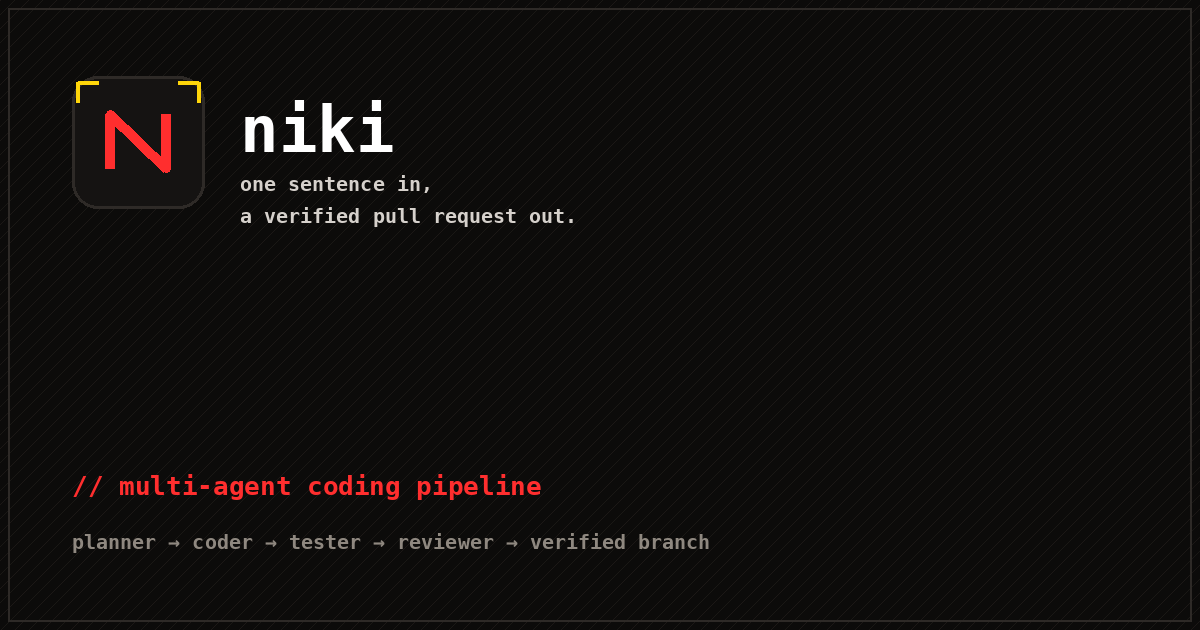
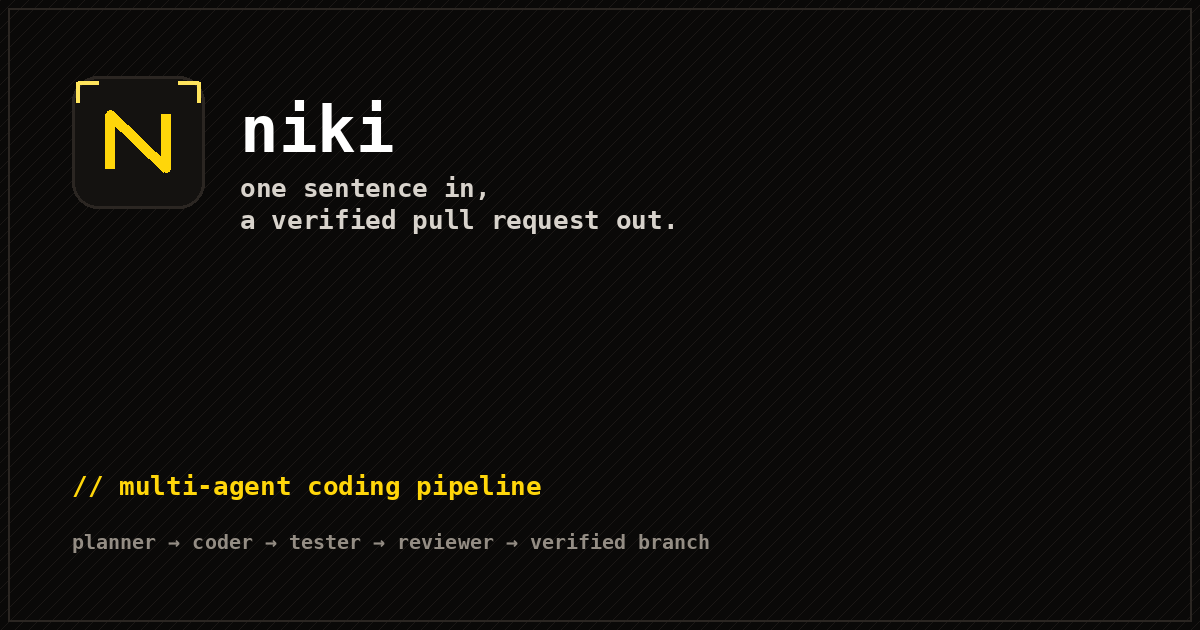
Rebrand: black + yellow only (red retired everywhere)
Full palette migration from red/yellow/black to shades of warm black
with sharp yellow as the single accent — no red anywhere in the Niki
UI, across marketing site and docs site:

- tokens.css: warm black surfaces (#0a0908/#141210/#1c1916), sharp
  yellow #ffd60a + soft #ffe45c hover tier + deep-yellow #e8b90a;
  --nk-red and all legacy names now alias the yellow family
- Agent roles: brightness tiers of yellow/white (planner yellow,
  coder soft-yellow, tester deep-yellow, reviewer white) — the
  pipeline stays readable without introducing a second hue
- Hero shader: yellow creases rising to soft-yellow ridges on warm
  black (black-and-yellow only), fresh seed
- Traffic dots: deep-yellow / yellow / white tiers
- Selection: yellow bg, black text; hazard stripes now use two
  yellow brightness tiers
- Favicons, apple-touch-icons, OG images regenerated with the
  yellow N mark (web + docs)
- Docs: light mode deep-yellow accents (#8a7300), dark mode yellow
  accent, code-diff surfaces tiered yellow, blume.config updated

Verified: 0 red pixels in the Niki UI site-wide (the only red on the
page is Groq's own brand mark in the provider marquee — third-party
brand, correct to keep), computed styles confirm yellow buttons on
warm black, docs dark-mode accent #ffd60a, full gate 0 issues at
390/768/1440, both builds pass.

diff --git a/apps/docs/theme.css b/apps/docs/theme.css
@@ -1,8 +1,8 @@
 /**
  * Niki docs — brand theme overrides on top of Blume's tokens.
  * Canonical palette: packages/niki-theme/tokens.css
- * Dark-first, flat surfaces, thin borders. Hazard palette:
- * warm blacks, sharp red primary, sharp yellow secondary.
+ * Dark-first, flat surfaces, thin borders. Palette: shades of warm
+ * black with sharp yellow as the single accent.
  */
 
 :root {
@@ -13,20 +13,20 @@
   --blume-muted-foreground: #5a6367;
   --blume-border: #cdd6da;
 
-  /* Brand accents (light mode — deep red for contrast) */
-  --blume-accent: #b31414;
+  /* Brand accents (light mode — deep yellow for contrast) */
+  --blume-accent: #8a7300;
   --blume-accent-foreground: #ffffff;
-  --blume-action: #b31414;
+  --blume-action: #8a7300;
   --blume-action-foreground: #ffffff;
 
   /* Code surfaces */
   --blume-code-background: #f0f3f5;
-  --blume-code-add: rgba(179, 20, 20, 0.12);
-  --blume-code-add-border: #b31414;
+  --blume-code-add: rgba(138, 115, 0, 0.12);
+  --blume-code-add-border: #8a7300;
   --blume-code-remove: rgba(255, 214, 10, 0.22);
   --blume-code-remove-border: #8a7300;
-  --blume-code-highlight: rgba(255, 140, 0, 0.14);
-  --blume-code-highlight-border: #b45309;
+  --blume-code-highlight: rgba(232, 185, 10, 0.16);
+  --blume-code-highlight-border: #8a7300;
 
   /* Niki brand tokens (shared with the marketing site) */
   --nk-bg-0: #0c0b0a;
@@ -36,58 +36,58 @@
   --nk-text-primary: #ffffff;
   --nk-text-secondary: #d6d1cc;
   --nk-text-muted: #8f8880;
-  --nk-mint: #b31414;
-  --nk-magenta: #8a7300;
+  --nk-mint: #8a7300;
+  --nk-magenta: #6e5d00;
 
-  /* Niki agent role tokens — semantic, kept distinct from brand system */
+  /* Niki agent role tokens — brightness tiers, no hue change */
   --niki-agent-planner: #8a7300;
-  --niki-agent-coder: #b31414;
-  --niki-agent-tester: #b45309;
+  --niki-agent-coder: #a89200;
+  --niki-agent-tester: #6e5d00;
   --niki-agent-reviewer: #1f2937;
-  --niki-agent-red: #b31414;
+  --niki-agent-red: #6e5d00;
   --niki-agent-security: #8a7300;
 }
 
 :root[data-theme="dark"] {
   /* Surfaces — warm black family */
-  --blume-background: #0c0b0a;
+  --blume-background: #0a0908;
   --blume-foreground: #ffffff;
-  --blume-muted: #151312;
-  --blume-muted-foreground: #8f8880;
-  --blume-border: #2e2a27;
+  --blume-muted: #141210;
+  --blume-muted-foreground: #948d84;
+  --blume-border: #2b2622;
 
-  /* Brand accents — sharp red primary */
-  --blume-accent: #ff2e2e;
-  --blume-accent-foreground: #0c0b0a;
-  --blume-action: #ff2e2e;
-  --blume-action-foreground: #ffffff;
+  /* Brand accents — sharp yellow, the single accent */
+  --blume-accent: #ffd60a;
+  --blume-accent-foreground: #0a0908;
+  --blume-action: #ffd60a;
+  --blume-action-foreground: #0a0908;
 
-  /* Code surfaces */
-  --blume-code-background: #1d1a18;
-  --blume-code-add: rgba(255, 46, 46, 0.14);
-  --blume-code-add-border: #ff2e2e;
-  --blume-code-remove: rgba(255, 214, 10, 0.16);
-  --blume-code-remove-border: #ffd60a;
-  --blume-code-highlight: rgba(255, 140, 0, 0.16);
-  --blume-code-highlight-border: #ff8c00;
+  /* Code surfaces — yellow-tiered, no hue change */
+  --blume-code-background: #1c1916;
+  --blume-code-add: rgba(255, 214, 10, 0.14);
+  --blume-code-add-border: #ffd60a;
+  --blume-code-remove: rgba(255, 228, 92, 0.12);
+  --blume-code-remove-border: #ffe45c;
+  --blume-code-highlight: rgba(232, 185, 10, 0.14);
+  --blume-code-highlight-border: #e8b90a;
 
   /* Niki brand tokens (dark) */
-  --nk-bg-0: #0c0b0a;
-  --nk-bg-1: #151312;
-  --nk-bg-2: #1d1a18;
-  --nk-border: #2e2a27;
+  --nk-bg-0: #0a0908;
+  --nk-bg-1: #141210;
+  --nk-bg-2: #1c1916;
+  --nk-border: #2b2622;
   --nk-text-primary: #ffffff;
-  --nk-text-secondary: #d6d1cc;
-  --nk-text-muted: #8f8880;
-  --nk-mint: #ff2e2e;
-  --nk-magenta: #ffd60a;
+  --nk-text-secondary: #d8d3cc;
+  --nk-text-muted: #948d84;
+  --nk-mint: #ffd60a;
+  --nk-magenta: #ffe45c;
 
-  /* Agent role tokens (dark) — red/yellow family, readable on warm blacks */
+  /* Agent role tokens (dark) — brightness tiers of yellow/white */
   --niki-agent-planner: #ffd60a;
-  --niki-agent-coder: #ff2e2e;
-  --niki-agent-tester: #ff8c00;
+  --niki-agent-coder: #ffe45c;
+  --niki-agent-tester: #e8b90a;
   --niki-agent-reviewer: #ffffff;
-  --niki-agent-red: #ff2e2e;
+  --niki-agent-red: #e8b90a;
   --niki-agent-security: #ffd60a;
 }
 
@@ -118,19 +118,19 @@
   border-radius: 12px;
 }
 
-/* Inline code: red chip, consistent with marketing site */
+/* Inline code: yellow chip, consistent with marketing site */
 :root[data-theme="dark"] :not(pre) > code {
-  background: rgba(255, 46, 46, 0.08);
-  border: 1px solid rgba(255, 46, 46, 0.18);
-  color: #ff6b6b;
+  background: rgba(255, 214, 10, 0.08);
+  border: 1px solid rgba(255, 214, 10, 0.2);
+  color: #ffd60a;
   border-radius: 6px;
   padding: 0.1em 0.35em;
 }
 
 :root:not([data-theme="dark"]) :not(pre) > code {
-  background: rgba(179, 20, 20, 0.06);
-  border: 1px solid rgba(179, 20, 20, 0.14);
-  color: #b31414;
+  background: rgba(138, 115, 0, 0.07);
+  border: 1px solid rgba(138, 115, 0, 0.16);
+  color: #8a7300;
   border-radius: 6px;
   padding: 0.1em 0.35em;
 }
@@ -142,7 +142,7 @@ h3 {
   letter-spacing: -0.02em;
 }
 
-/* Links: red in dark, deep red in light */
+/* Links: yellow in dark, deep yellow in light */
 :root[data-theme="dark"] a {
   color: var(--nk-mint);
 }

diff --git a/packages/niki-theme/tokens.css b/packages/niki-theme/tokens.css
@@ -1,53 +1,54 @@
 /**
  * Niki design tokens — canonical source for both the marketing site
- * (apps/web) and the docs site (apps/docs). Derived from the Niki visual
- * reference. Dark-first, flat surfaces, thin borders, red/yellow hazard
- * palette on warm blacks.
+ * (apps/web) and the docs site (apps/apps/docs). Dark-first, flat surfaces,
+ * thin borders. Palette: shades of warm black with sharp yellow as the
+ * single accent. No other hue appears in the brand system.
  *
  * Brand system:
- *   --nk-red / --nk-red-deep       primary accent (logo, CTAs, links)
- *   --nk-yellow / --nk-yellow-deep secondary accent (active states, warn)
+ *   --nk-yellow / --nk-yellow-deep  the only accent (brand, CTAs, links,
+ *                                    active states, focus, selection)
  *
- * Legacy aliases (--nk-mint*, --nk-magenta*) remain as compatibility
- * shims: existing rules that reference them cascade to the new palette.
+ * Compatibility aliases (--nk-mint*, --nk-magenta*, --nk-red*) all resolve
+ * to the yellow family so existing rules cascade to the new palette.
  */
 
 :root {
   /* ---- Surfaces (warm black family) ---- */
-  --nk-bg-0: #0c0b0a; /* page background — warm black */
-  --nk-bg-1: #151312; /* raised surface / card */
-  --nk-bg-2: #1d1a18; /* higher surface / code block */
-  --nk-surface-border: #2e2a27; /* thin borders */
+  --nk-bg-0: #0a0908; /* page background — warm black */
+  --nk-bg-1: #141210; /* raised surface / card */
+  --nk-bg-2: #1c1916; /* higher surface / code block */
+  --nk-surface-border: #2b2622; /* thin borders */
 
   /* ---- Text ---- */
   --nk-text-primary: #ffffff;
-  --nk-text-secondary: #d6d1cc;
-  --nk-text-muted: #8f8880;
+  --nk-text-secondary: #d8d3cc;
+  --nk-text-muted: #948d84;
 
-  /* ---- Brand accents ---- */
-  --nk-red: #ff2e2e; /* sharp red — primary accent */
-  --nk-red-deep: #2a0a0a; /* red surface / chip bg */
-  --nk-yellow: #ffd60a; /* sharp yellow — active/attention accent */
-  --nk-yellow-deep: #2a2205; /* yellow surface / chip bg */
+  /* ---- Brand accent ---- */
+  --nk-yellow: #ffd60a; /* sharp yellow — the only accent */
+  --nk-yellow-deep: #2a2305; /* yellow surface / chip bg */
+  --nk-yellow-soft: #ffe45c; /* hover-bright yellow */
 
-  /* ---- Compatibility aliases (old mint/magenta names) ---- */
-  --nk-mint: var(--nk-red);
-  --nk-mint-deep: var(--nk-red-deep);
-  --nk-magenta: var(--nk-yellow);
+  /* ---- Compatibility aliases (all resolve to yellow family) ---- */
+  --nk-red: var(--nk-yellow);
+  --nk-red-deep: var(--nk-yellow-deep);
+  --nk-mint: var(--nk-yellow);
+  --nk-mint-deep: var(--nk-yellow-deep);
+  --nk-magenta: var(--nk-yellow-soft);
   --nk-magenta-deep: var(--nk-yellow-deep);
 
-  /* ---- Agent role colors (semantic, distinct from brand) ---- */
+  /* ---- Agent role colors (semantic — brightness tiers of yellow/white) ---- */
   --nk-agent-planner: #ffd60a; /* yellow */
-  --nk-agent-coder: #ff2e2e; /* red */
-  --nk-agent-tester: #ff8c00; /* orange */
+  --nk-agent-coder: #ffe45c; /* soft yellow */
+  --nk-agent-tester: #e8b90a; /* deep yellow */
   --nk-agent-reviewer: #ffffff; /* white */
-  --nk-agent-red: #ff2e2e;
-  --nk-agent-security: #ffd60a;
+  --nk-agent-red: #e8b90a; /* alias: attention → deep yellow */
+  --nk-agent-security: #ffd60a; /* alias: ok → yellow */
 
-  /* ---- Status ---- */
+  /* ---- Status (brightness-tiered, no hue change) ---- */
   --nk-ok: #ffd60a;
-  --nk-warn: #ff8c00;
-  --nk-err: #ff2e2e;
+  --nk-warn: #ffe45c;
+  --nk-err: #ffffff;
 
   /* ---- Typography ---- */
   --nk-font-sans:
@@ -77,5 +78,5 @@
   --nk-header-h: 64px;
 
   /* ---- Focus ---- */
-  --nk-focus-ring: 0 0 0 2px var(--nk-bg-0), 0 0 0 4px var(--nk-red);
+  --nk-focus-ring: 0 0 0 2px var(--nk-bg-0), 0 0 0 4px var(--nk-yellow);
 }

diff --git a/apps/web/src/components/HeroShader.tsx b/apps/web/src/components/HeroShader.tsx
@@ -3,8 +3,8 @@
 /**
  * Niki hero shader — Silk-style animated WebGL background.
  * Adapted from the 21st.dev Shader Builder ("Silk") component, retuned to
- * the Niki hazard palette: warm black #0c0b0a with sharp red #ff2e2e
- * creases and occasional yellow #ffd60a glints.
+ * the Niki palette: warm blacks with sharp yellow #ffd60a creases rising
+ * to soft #ffe45c at the brightest ridges. Black and yellow only.
  * Low intensity + heavy vignette fade keeps hero text legible.
  * Render loop pauses off-screen / on hidden tabs; disabled entirely under
  * prefers-reduced-motion.
@@ -145,18 +145,18 @@ void main() {
   gl_FragColor = vec4(clamp(col, 0.0, 1.0), 1.0);
 }`;
 
-/* Niki hazard palette: warm black #0c0b0a dominates the field; red
-   #ff2e2e creases the waves; yellow #ffd60a appears at the brightest
-   ridge — a hazard-tape shimmer. */
+/* Niki palette: warm blacks dominate the field; sharp yellow #ffd60a
+   creases the waves, rising to soft #ffe45c at the brightest ridges.
+   Black and yellow only. */
 const COLORS: [number, number, number][] = [
-  [0x0c / 255, 0x0b / 255, 0x0a / 255],
-  [0x0c / 255, 0x0b / 255, 0x0a / 255],
-  [0x15 / 255, 0x13 / 255, 0x12 / 255],
-  [0x2a / 255, 0x0a / 255, 0x0a / 255],
-  [0x5c / 255, 0x14 / 255, 0x14 / 255],
-  [0xa8 / 255, 0x1f / 255, 0x1f / 255],
-  [0xff / 255, 0x2e / 255, 0x2e / 255],
+  [0x0a / 255, 0x09 / 255, 0x08 / 255],
+  [0x0a / 255, 0x09 / 255, 0x08 / 255],
+  [0x14 / 255, 0x12 / 255, 0x10 / 255],
+  [0x2a / 255, 0x23 / 255, 0x05 / 255],
+  [0x5c / 255, 0x4a / 255, 0x08 / 255],
+  [0xa8 / 255, 0x87 / 255, 0x0e / 255],
   [0xff / 255, 0xd6 / 255, 0x0a / 255],
+  [0xff / 255, 0xe4 / 255, 0x5c / 255],
 ];
 
 export function HeroShader({ className }: { className?: string }) {
@@ -208,7 +208,7 @@ export function HeroShader({ className }: { className?: string }) {
     gl.uniform4f(uni.shape, 1.15, 0.24, 0.5, 0.22);
     gl.uniform4f(uni.surface, 2.4, 0.94, -0.02, 1.0);
     gl.uniform4f(uni.finish, 0.0, 0.55, 0.0, 0.02);
-    gl.uniform4f(uni.transform, 271.0, 0.0, 0.06, 0.0);
+    gl.uniform4f(uni.transform, 347.0, 0.0, 0.06, 0.0);
     gl.uniform4f(uni.space, 0.0, 0.0, 0.0, 0.0);
 
     let raf = 0;

diff --git a/apps/web/src/styles/niki.css b/apps/web/src/styles/niki.css
@@ -37,9 +37,9 @@
   background: repeating-linear-gradient(
     -45deg,
     transparent 0 14px,
-    color-mix(in srgb, var(--nk-red) 4%, transparent) 14px 15px,
+    color-mix(in srgb, var(--nk-yellow) 4.5%, transparent) 14px 15px,
     transparent 15px 29px,
-    color-mix(in srgb, var(--nk-yellow) 3.5%, transparent) 29px 30px
+    color-mix(in srgb, var(--nk-yellow-soft) 3%, transparent) 29px 30px
   );
 }
 
@@ -868,8 +868,8 @@ nav :focus-visible {
 
 /* selection */
 ::selection {
-  background: var(--nk-red);
-  color: #ffffff;
+  background: var(--nk-yellow);
+  color: #0a0908;
 }
 
 /* base reset */
@@ -3578,7 +3578,7 @@ html::-webkit-scrollbar {
 }
 
 .nx-terminal:hover .nx-terminal__dots i:nth-child(1) {
-  background: #ff2e2e;
+  background: #e8b90a;
 }
 
 .nx-terminal:hover .nx-terminal__dots i:nth-child(2) {

diff --git a/apps/docs/blume.config.ts b/apps/docs/blume.config.ts
@@ -30,12 +30,12 @@ export default defineConfig({
   },
   theme: {
     accent: {
-      dark: "#ff2e2e",
-      light: "#b31414",
+      dark: "#ffd60a",
+      light: "#8a7300",
     },
-    action: "#ff2e2e",
+    action: "#ffd60a",
     background: {
-      dark: "#0c0b0a",
+      dark: "#0a0908",
       light: "#faf9f8",
     },
     fonts: {
